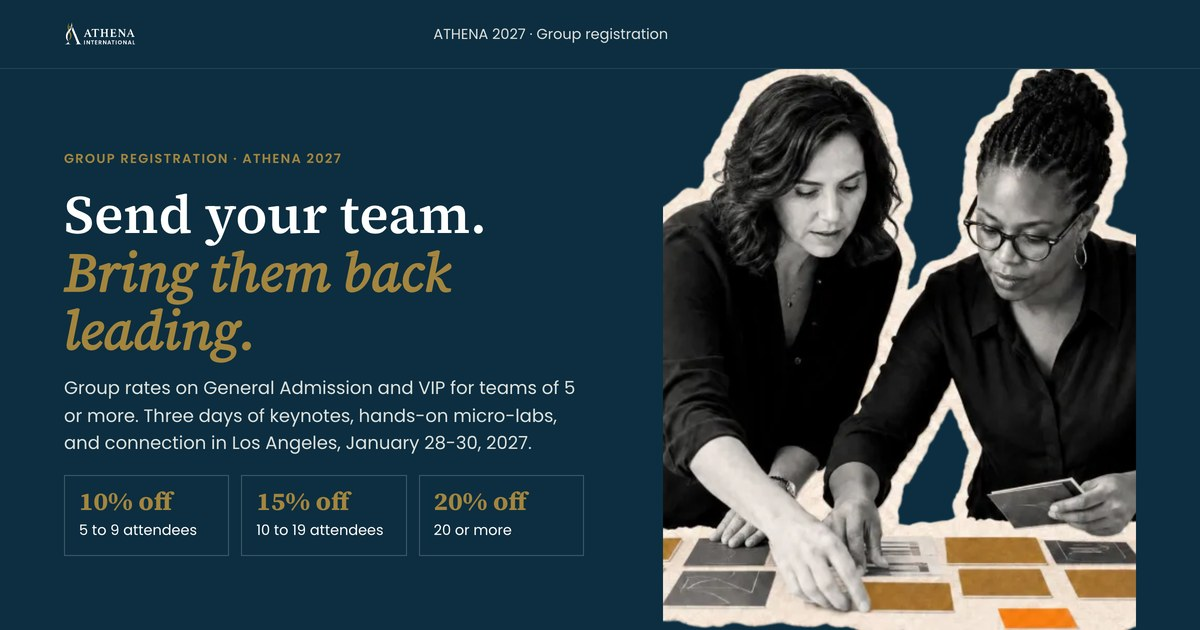
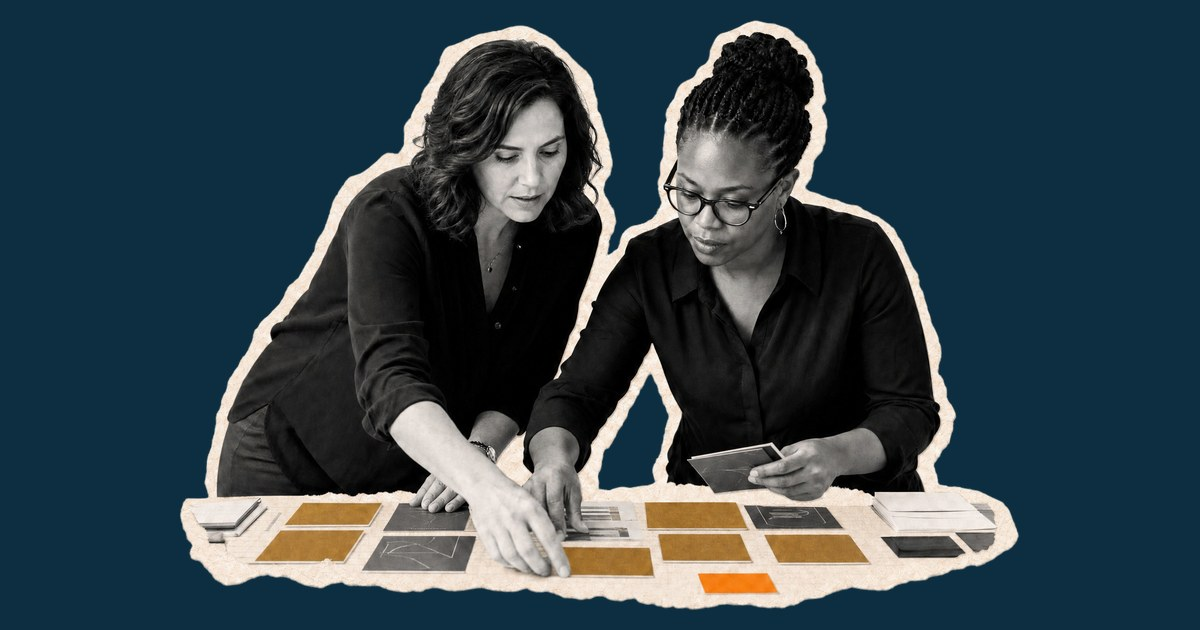
Miniatura da /bogo/ e /groups/: só a foto do hero

diff --git a/bogo/index.html b/bogo/index.html
@@ -39,17 +39,17 @@
     <meta property="og:url" content="https://conference.athenainternational.org/bogo/" />
     <meta property="og:title" content="ATHENA 2027 | Award Recipient Offer: Bring a Guest Free" />
     <meta property="og:description" content="For ATHENA Award Recipients only: buy one ticket to ATHENA 2027 and bring a guest free. January 28-30, 2027, Hilton Los Angeles/Universal City." />
-    <meta property="og:image" content="https://conference.athenainternational.org/assets/conference-2027/og/athena-2027-share-bogo.jpg" />
-    <meta property="og:image:secure_url" content="https://conference.athenainternational.org/assets/conference-2027/og/athena-2027-share-bogo.jpg" />
+    <meta property="og:image" content="https://conference.athenainternational.org/assets/conference-2027/og/athena-2027-share-bogo.jpg?v=2" />
+    <meta property="og:image:secure_url" content="https://conference.athenainternational.org/assets/conference-2027/og/athena-2027-share-bogo.jpg?v=2" />
     <meta property="og:image:type" content="image/jpeg" />
     <meta property="og:image:width" content="1200" />
     <meta property="og:image:height" content="630" />
-    <meta property="og:image:alt" content="ATHENA 2027 Award Recipients, buy one ticket and bring a guest free, with three ATHENA Award Recipients holding their awards" />
+    <meta property="og:image:alt" content="Three ATHENA Award Recipients holding their awards at an ATHENA celebration" />
     <meta name="twitter:card" content="summary_large_image" />
     <meta name="twitter:title" content="ATHENA 2027 | Award Recipient Offer: Bring a Guest Free" />
     <meta name="twitter:description" content="For ATHENA Award Recipients only: buy one ticket to ATHENA 2027 and bring a guest free. January 28-30, 2027, Hilton Los Angeles/Universal City." />
-    <meta name="twitter:image" content="https://conference.athenainternational.org/assets/conference-2027/og/athena-2027-share-bogo.jpg" />
-    <meta name="twitter:image:alt" content="ATHENA 2027 Award Recipients, buy one ticket and bring a guest free, with three ATHENA Award Recipients holding their awards" />
+    <meta name="twitter:image" content="https://conference.athenainternational.org/assets/conference-2027/og/athena-2027-share-bogo.jpg?v=2" />
+    <meta name="twitter:image:alt" content="Three ATHENA Award Recipients holding their awards at an ATHENA celebration" />
     <meta name="robots" content="noindex" />
     <link href="https://fonts.googleapis.com/css2?family=Poppins:wght@400;600;700&family=Source+Serif+4:ital,wght@0,400;0,600;0,700;1,400&display=swap" rel="stylesheet" />
     <style>

diff --git a/groups/index.html b/groups/index.html
@@ -39,17 +39,17 @@
     <meta property="og:url" content="https://conference.athenainternational.org/groups/" />
     <meta property="og:title" content="ATHENA 2027 | Group Registration" />
     <meta property="og:description" content="Group rates for ATHENA 2027: 10% off for 5 to 9 attendees, 15% off for 10 to 19, and 20% off for 20 or more. January 28-30, 2027, Hilton Los Angeles/Universal City." />
-    <meta property="og:image" content="https://conference.athenainternational.org/assets/conference-2027/og/athena-2027-share-groups.jpg" />
-    <meta property="og:image:secure_url" content="https://conference.athenainternational.org/assets/conference-2027/og/athena-2027-share-groups.jpg" />
+    <meta property="og:image" content="https://conference.athenainternational.org/assets/conference-2027/og/athena-2027-share-groups.jpg?v=2" />
+    <meta property="og:image:secure_url" content="https://conference.athenainternational.org/assets/conference-2027/og/athena-2027-share-groups.jpg?v=2" />
     <meta property="og:image:type" content="image/jpeg" />
     <meta property="og:image:width" content="1200" />
     <meta property="og:image:height" content="630" />
-    <meta property="og:image:alt" content="ATHENA 2027 group registration: send your team, bring them back leading. 10%, 15% and 20% off for groups of 5 or more" />
+    <meta property="og:image:alt" content="Two women working side by side over a table of cards in a hands-on ATHENA micro-lab" />
     <meta name="twitter:card" content="summary_large_image" />
     <meta name="twitter:title" content="ATHENA 2027 | Group Registration" />
     <meta name="twitter:description" content="Group rates for ATHENA 2027: 10% off for 5 to 9 attendees, 15% off for 10 to 19, and 20% off for 20 or more. January 28-30, 2027, Hilton Los Angeles/Universal City." />
-    <meta name="twitter:image" content="https://conference.athenainternational.org/assets/conference-2027/og/athena-2027-share-groups.jpg" />
-    <meta name="twitter:image:alt" content="ATHENA 2027 group registration: send your team, bring them back leading. 10%, 15% and 20% off for groups of 5 or more" />
+    <meta name="twitter:image" content="https://conference.athenainternational.org/assets/conference-2027/og/athena-2027-share-groups.jpg?v=2" />
+    <meta name="twitter:image:alt" content="Two women working side by side over a table of cards in a hands-on ATHENA micro-lab" />
     <link href="https://fonts.googleapis.com/css2?family=Poppins:wght@400;600;700&family=Source+Serif+4:ital,wght@0,400;0,600;0,700;1,400&display=swap" rel="stylesheet" />
     <style>
       :root {
